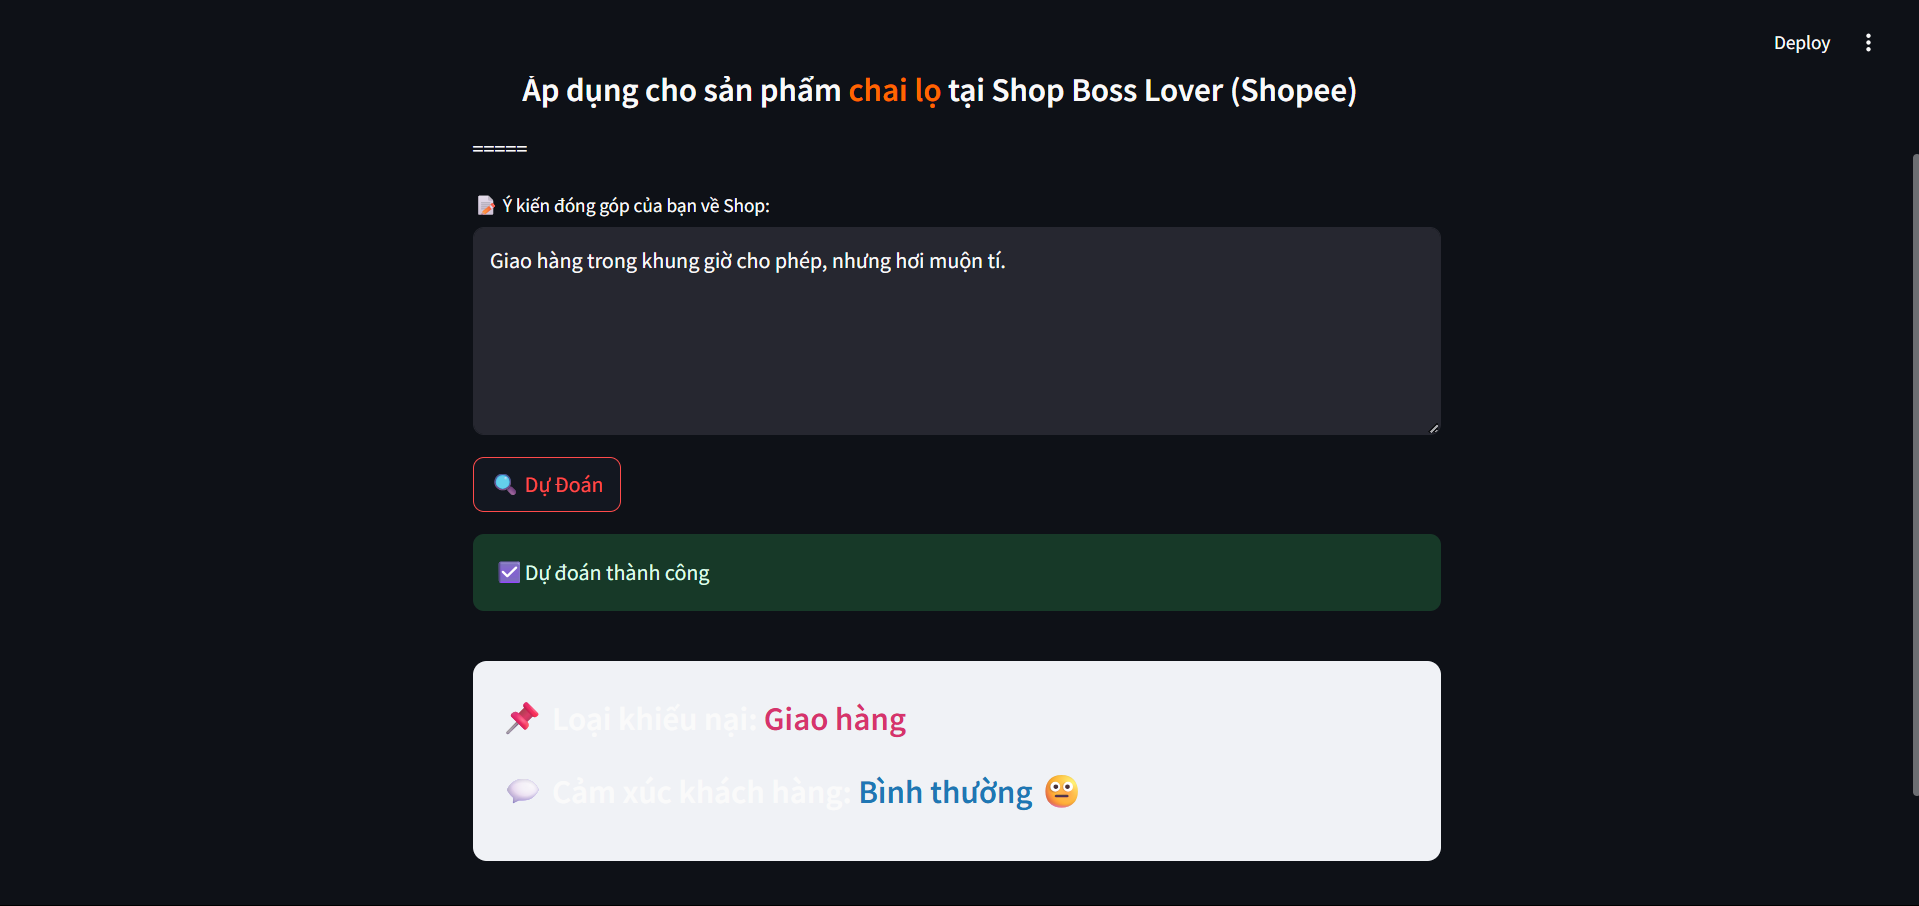
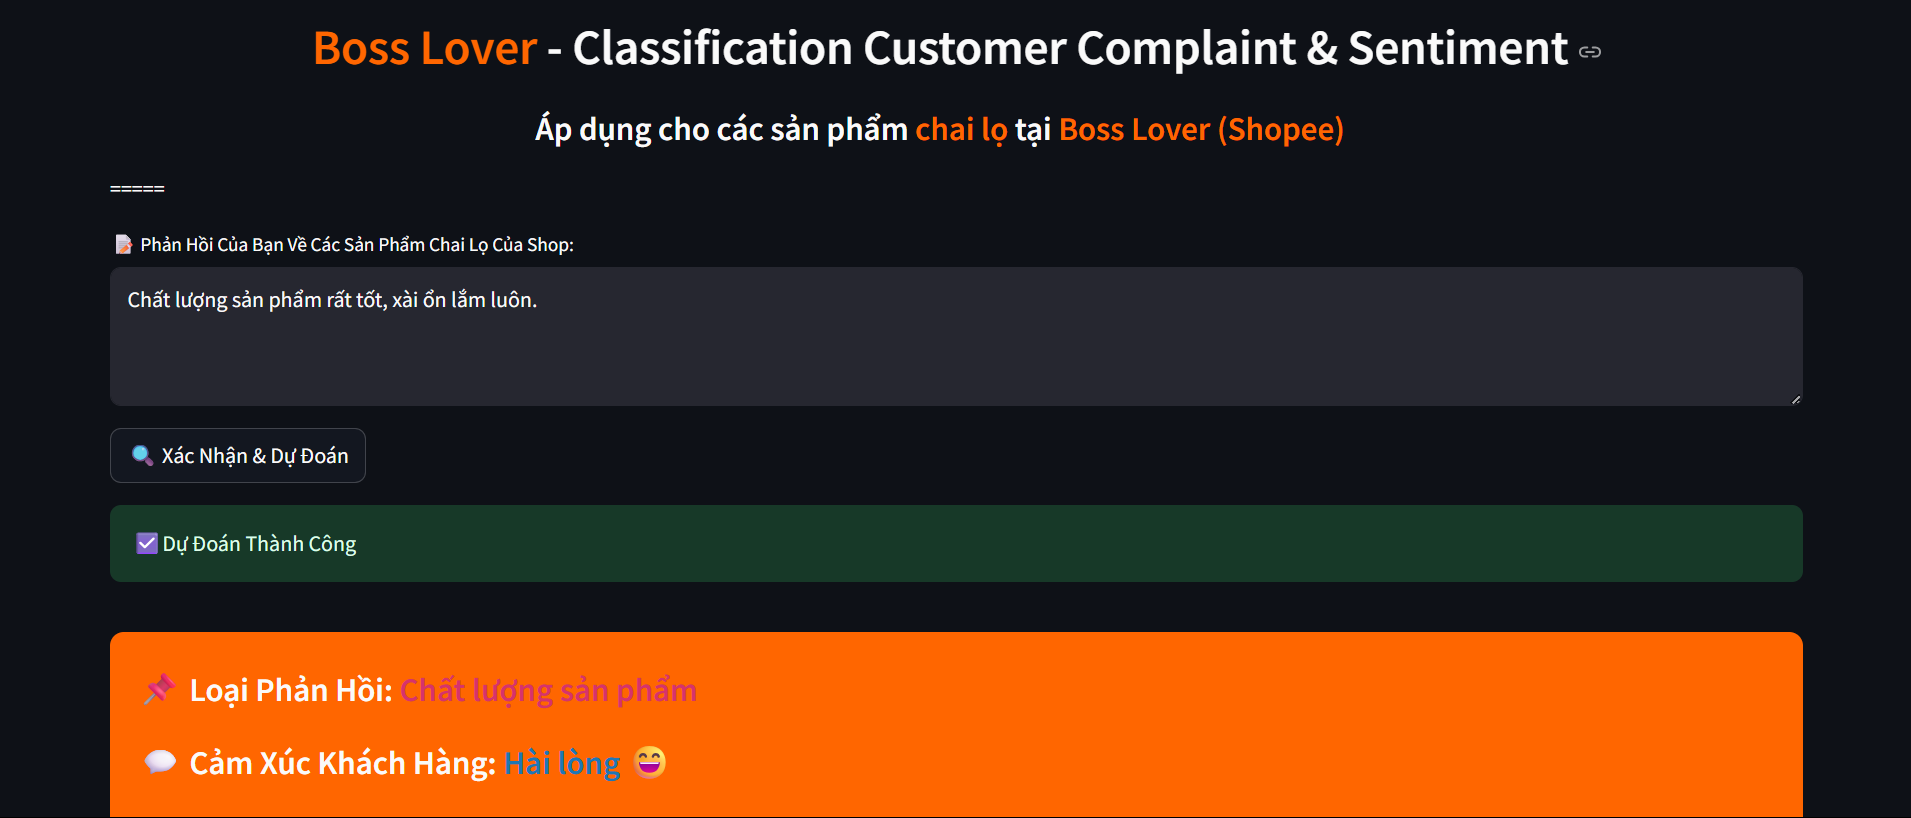
update commit

diff --git a/customer_feedback/app.py b/customer_feedback/app.py
@@ -83,22 +83,26 @@ emoji_map = {
     "Hài lòng": "😄"
 }
 
-st.set_page_config(page_title="Classification Customer Complaint & Sentiment", layout="centered")
-st.markdown("<h2 style='text-align:center;'> ~ Boss Lover ~ Classification Customer Complaint & Sentiment</h2>", unsafe_allow_html=True)
-st.markdown("<h4 style='text-align:center;'> Áp dụng cho sản phẩm <span style='color:#ff6600;'>chai lọ</span> tại Shop Boss Lover (Shopee)</h4>", unsafe_allow_html=True)
+st.set_page_config(
+    page_title="Classification Customer Complaint & Sentiment",
+    layout="wide",
+    initial_sidebar_state="expanded",
+)
+st.markdown("<h2 style='text-align:center;'> <span style='color:#ff6600;'>Boss Lover</span> - Classification Customer Complaint & Sentiment</h2>", unsafe_allow_html=True)
+st.markdown("<h4 style='text-align:center;'> Áp dụng cho các sản phẩm <span style='color:#ff6600;'>chai lọ</span> tại <span style='color:#ff6600;'>Boss Lover (Shopee)</span></h4>", unsafe_allow_html=True)
 st.markdown("=====")
 
-text_input = st.text_area("📝 Ý kiến đóng góp của bạn về Shop: ", height=150)
+text_input = st.text_area("📝 Phản Hồi Của Bạn Về Các Sản Phẩm Chai Lọ Của Shop: ", height=100)
 
-if st.button("🔍 Dự Đoán"):
+if st.button("🔍 Xác Nhận & Dự Đoán"):
     if text_input.strip() == "":
-        st.warning("⚠Vui lòng nhập ý kiến của bạn trước khi dự đoán.")
+        st.warning("⚠Vui Lòng Nhập Ý Kiến Của Bạn Trước Khi Dự Đoán.")
     else:
         complaint, sentiment = predict(text_input)
-        st.success("☑Dự đoán thành công")
+        st.success("☑Dự Đoán Thành Công")
 
         st.markdown(f"""
-                <div style='background-color:#f0f2f6;padding:20px;border-radius:10px;margin-top:20px'>
-                    <h4>📌 <b>Loại khiếu nại:</b> <span style='color:#d6336c'>{complaint}</span></h4>
-                    <h4>💬 <b>Cảm xúc khách hàng:</b> <span style='color:#1f77b4'>{sentiment} {emoji_map.get(sentiment, '')}</span></h4>
+                <div style='background-color:#ff6600;padding:20px;border-radius:10px;margin-top:20px'>
+                    <h4>📌 <b>Loại Phản Hồi:</b> <span style='color:#d6336c'>{complaint}</span></h4>
+                    <h4>💬 <b>Cảm Xúc Khách Hàng:</b> <span style='color:#1f77b4'>{sentiment} {emoji_map.get(sentiment, '')}</span></h4>
                 </div>""", unsafe_allow_html=True)

diff --git a/README.md b/README.md
@@ -12,6 +12,12 @@
 ![img_2.png](img_2.png)
 ###4.
 ![img_3.png](img_3.png)
+###5.
+![img_4.png](img_4.png)
+###6.
+![img_5.png](img_5.png)
+###7.
+
 
 ## III. Công Nghệ Sử Dụng Trong Dự Án
 ### 1. Ngôn ngữ chính: Python
